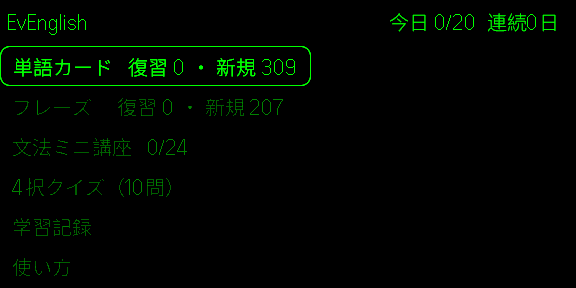
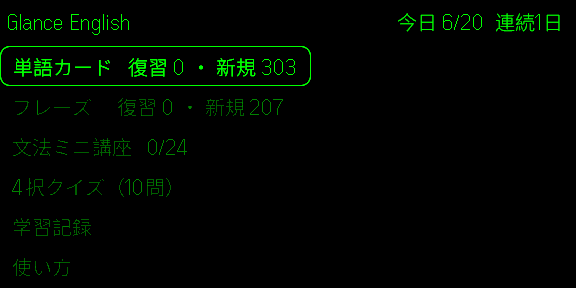
Rename the app to Glance English (#8)
Even Hub rejects app names that contain "Even" (case-insensitive), and
"EvEnglish" does. The display name changes in app.json, the glasses
header, the phone header, the page title, the release title and the
README. package_id and the storage key stay the same so the store
listing and saved progress carry over. README screenshots are retaken
with the new name.

Claude-Session: https://claude.ai/code/session_014UZC6U4UzKbjznURitdRBL

Changed region(s): [[0.8438, 0.0312, 1.0, 0.125], [0.6562, 0.0312, 0.8125, 0.125], [0.0312, 0.0625, 0.2188, 0.125]]

diff --git a/src/glasses/app.ts b/src/glasses/app.ts
@@ -351,7 +351,7 @@ export class GlassesApp {
     const w = this.deckCounts('word')
     const p = this.deckCounts('phrase')
     const done = this.content.grammar.filter((g) => d.grammarDone[g.id]).length
-    const header = spread('EvEnglish', `今日 ${this.store.todayCount()}/${d.settings.dailyGoal}  連続${d.streak}日`, TEXT_INNER_W)
+    const header = spread('Glance English', `今日 ${this.store.todayCount()}/${d.settings.dailyGoal}  連続${d.streak}日`, TEXT_INNER_W)
     return headerWithList(header, [
       `単語カード   復習 ${w.due} ・ 新規 ${w.fresh}`,
       `フレーズ     復習 ${p.due} ・ 新規 ${p.fresh}`,

diff --git a/src/phone/ui.ts b/src/phone/ui.ts
@@ -26,7 +26,7 @@ export function mountPhoneUI(
 
   root.innerHTML = `
     <header class="top">
-      <h1>EvEnglish <span class="version">v${esc(__APP_VERSION__)}</span></h1>
+      <h1>Glance English <span class="version">v${esc(__APP_VERSION__)}</span></h1>
       <span class="badge ${options.mode}">${options.mode === 'glasses' ? 'G2 接続中' : 'ブラウザプレビュー'}</span>
     </header>
     <section class="card today" data-slot="today"></section>

diff --git a/index.html b/index.html
@@ -4,7 +4,7 @@
     <meta charset="UTF-8" />
     <meta name="viewport" content="width=device-width, initial-scale=1.0" />
     <link rel="icon" href="data:," />
-    <title>EvEnglish</title>
+    <title>Glance English</title>
   </head>
   <body>
     <div id="app"></div>
